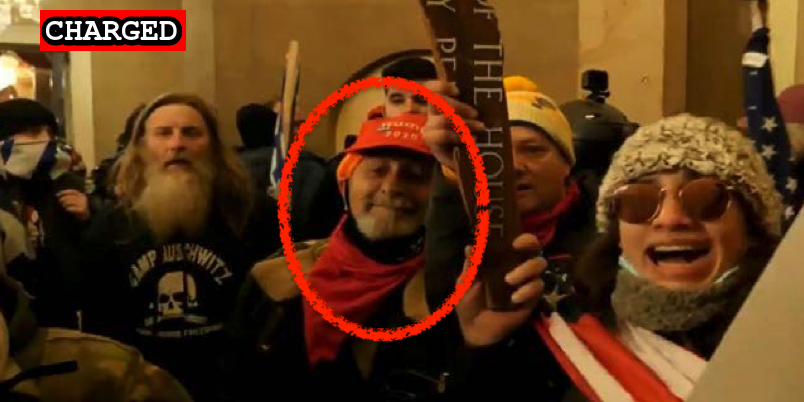
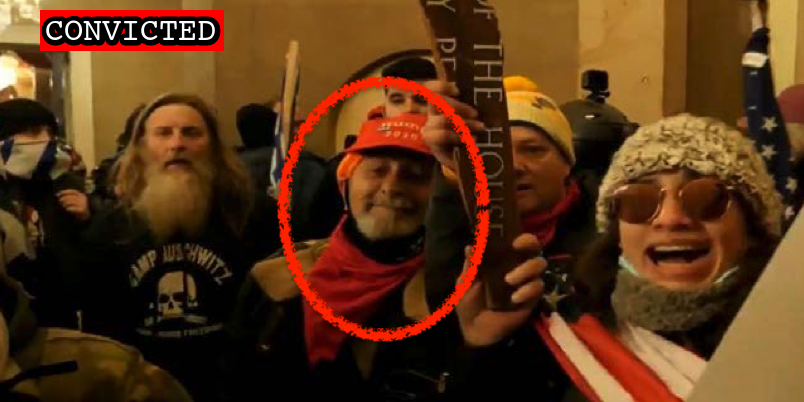
Latest import

Changed region(s): [[0.0311, 0.0, 0.2799, 0.1493]]

diff --git a/docs/_suspects/william-merry.md b/docs/_suspects/william-merry.md
@@ -4,15 +4,15 @@ lastName: Merry
 hashtag: WilliamMerry
 aka:
 residence: Missouri
-status: Charged
+status: Convicted
 date: 2021-02-04
 charged: 2021-02-04
 indicted:
-convicted: 
-sentenced: 
-dismissed: 
+convicted: 2022-01-05
+sentenced:
+dismissed:
 deceased:
-plea_hearing:
+plea_hearing: 2022-01-05
 sentencing:
 age: 62
 occupation:
@@ -34,7 +34,14 @@ published: true
 caseNumber: 1:21-mj-173
 videos:
 charges:
+  - code: 18 USC § 641
+    title: Theft of Government Property
+    url: https://www.law.cornell.edu/uscode/text/18/641
+    felony: false
 sentence:
 ---
+
 - [News Report](https://www.stltoday.com/news/local/crime-and-courts/st-louis-county-man-accused-of-role-in-capitol-riot-released-from-jail/article_6b5119e8-6368-5621-bfe0-8da222eb185c.html)
-- [Statement of Facts](https://www.justice.gov/usao-dc/case-multi-defendant/file/1365726/download)
+- [Statement of Facts](https://www.justice.gov/usao-dc/case-multi-defendant/file/1461906/download)
+- [Information](https://www.justice.gov/usao-dc/case-multi-defendant/file/1461896/download)
+- [Plea Agreement](https://www.justice.gov/usao-dc/case-multi-defendant/file/1461901/download)

diff --git a/docs/_suspects/gina-bisignano.md b/docs/_suspects/gina-bisignano.md
@@ -36,12 +36,11 @@ videos:
 charges:
 sentence:
 ---
-
 - [News Report](https://losangeles.cbslocal.com/2021/01/19/beverly-hills-salon-owner-gina-bisignano-2-others-arrested-for-capitol-riots/)
 - [Self Incrimination (Video)](https://twitter.com/waterspider__/status/1349422388396494850)
 - [FBI Statement (Twitter)](https://twitter.com/FBILosAngeles/status/1351604985210040326?s=20)
-- [Statement of Facts](https://www.justice.gov/opa/page/file/1356556/download)
+- [Statement of Facts](https://www.justice.gov/usao-dc/case-multi-defendant/file/1461921/download)
 - [Complaint](https://www.justice.gov/opa/page/file/1356561/download)
 - [Indictment](https://www.justice.gov/opa/page/file/1362886/download)
 - [FBI Raid (Video)](https://losangeles.cbslocal.com/2021/01/19/beverly-hills-salon-owner-gina-bisignano-2-others-arrested-for-capitol-riots/)
-- [Plea Agreement](https://extremism.gwu.edu/sites/g/files/zaxdzs2191/f/Gina%20Bisignano%20Plea%20Agreement.pdf)
+- [Plea Agreement](https://www.justice.gov/usao-dc/case-multi-defendant/file/1461916/download)

diff --git a/docs/_suspects/thomas-webster.md b/docs/_suspects/thomas-webster.md
@@ -33,14 +33,13 @@ layout: suspect
 published: true
 caseNumber: 1:21-cr-208
 videos:
-  - title: Exhibit 1 - N.R. BWC Clip.mp4 (0:00:57)
-    url: https://propublica-data-j6cases-videos.s3.us-east-1.amazonaws.com/7cab0080ce2b013960702cde48001122.mp4
+- title: Exhibit 1 - N.R. BWC Clip.mp4 (0:00:57)
+  url: https://propublica-data-j6cases-videos.s3.us-east-1.amazonaws.com/7cab0080ce2b013960702cde48001122.mp4
 charges:
 sentence:
 ---
-
 - [News Report](https://www.nytimes.com/2021/02/23/nyregion/nypd-officer-arrested-capitol-riot.html)
 - [Statement of Facts](https://www.justice.gov/usao-dc/case-multi-defendant/file/1369976/download)
 - [FBI Statement (Twitter)](https://twitter.com/NewYorkFBI/status/1363940436835004416?s=20)
-- [Indictment](https://www.justice.gov/usao-dc/case-multi-defendant/file/1380296/download)
+- [Indictment](https://www.justice.gov/usao-dc/case-multi-defendant/file/1461941/download)
 - [Bodycam Evidence (Video)](https://twitter.com/MacFarlaneNews/status/1408403884637405188)

diff --git a/docs/_suspects/nicholas-lattanzi.md b/docs/_suspects/nicholas-lattanzi.md
@@ -1,0 +1,41 @@
+---
+name: Nicholas Lattanzi
+lastName: Lattanzi
+hashtag:
+aka:
+residence: Delaware
+status: Charged
+date: 2022-01-10
+charged: 2022-01-10
+indicted:
+convicted:
+sentenced:
+dismissed:
+deceased:
+plea_hearing:
+sentencing:
+age:
+occupation:
+affiliations:
+jurisdiction: Federal
+image: /images/preview/nicholas-lattanzi.jpg
+suspect: nicholas-lattanzi.jpg
+booking:
+courtroom:
+courthouse:
+raid:
+perpwalk:
+quote:
+title: Nicholas Lattanzi charged on January 10, 2022
+description: Click for latest case details. Suspects innocent until proven guilty.
+author: seditiontrack
+layout: suspect
+published: false
+caseNumber:
+videos:
+charges:
+sentence:
+---
+
+- [News Report]()
+- [Statement of Facts](https://extremism.gwu.edu/sites/g/files/zaxdzs2191/f/Nick%20Lattanzi%20Statement%20of%20Facts.pdf)

diff --git a/docs/_suspects/peter-stager.md b/docs/_suspects/peter-stager.md
@@ -36,10 +36,9 @@ videos:
 charges:
 sentence:
 ---
-
 - [News Report](https://www.wsj.com/livecoverage/trump-impeachment-house-biden/card/BeFqRm1wpv2SEpH3SSLQ)
 - [Self Incrimination [VIDEO]](https://www.youtube.com/watch?v=SVhLKKTUhIg&feature=youtu.be)
 - [Complaint](https://www.justice.gov/opa/page/file/1354981/download)
 - [Statement of Facts](https://www.justice.gov/opa/page/file/1355506/download)
 - [Booking (Video)](https://www.thv11.com/video/news/crime/peter-stager-booking-video/91-fc5a4b9c-0c85-4f3c-8974-04b77409c8cc)
-- [Indictment](https://www.justice.gov/usao-dc/case-multi-defendant/file/1413436/download)
+- [Indictment](https://www.justice.gov/usao-dc/case-multi-defendant/file/1461561/download)

diff --git a/docs/_suspects/kelly-meggs.md b/docs/_suspects/kelly-meggs.md
@@ -38,6 +38,6 @@ sentence:
 ---
 - [News Report](https://www.cbsnews.com/news/capitol-riot-oath-keepers-indicted-conspiracy/)
 - [Complaint](https://www.justice.gov/usao-dc/case-multi-defendant/file/1369076/download)
-- [Indictment](https://www.justice.gov/usao-dc/case-multi-defendant/file/1410751/download)
+- [Indictment](https://www.justice.gov/usao-dc/case-multi-defendant/file/1461706/download)
 - [DOJ Press Release](https://www.justice.gov/usao-dc/pr/six-individuals-affiliated-oath-keepers-indicted-federal-grand-jury-conspiracy-obstruct)
 - [Statement of Facts](https://www.justice.gov/usao-dc/case-multi-defendant/file/1369076/download)

diff --git a/docs/_suspects/brian-bingham.md b/docs/_suspects/brian-bingham.md
@@ -31,7 +31,7 @@ description: Click for latest case details. Suspects innocent until proven guilt
 author: seditiontrack
 layout: suspect
 published: true
-caseNumber:
+caseNumber: 1:21-mj-430
 videos:
 charges:
 sentence:
